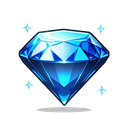
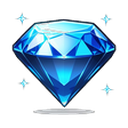
fix(circle-heroes): HUD 보석 아이콘 정렬 + 전투력 글씨색 통일
gem.png가 내부 여백이 골드/전투력 아이콘보다 비대칭적으로 커서(특히
위쪽) 같은 12px 박스 안에서 유독 아래로 치우쳐 보였다 — 실제 그림
내용에 맞춰 타이트하게 크롭 후 균등 여백으로 재중앙 정렬해 다른
아이콘들과 시각적으로 나란히 맞도록 함.
전투력 숫자는 .hud-power가 별도 색(#a8650f)을 써서 골드/보석과 달라
보였던 것을 제거, 공통 .hud-chip 색(#4a3418)을 그대로 따르게 통일.

diff --git a/circle-heroes/play/assets/index-CMFkOMbD.css b/circle-heroes/play/assets/index-CMFkOMbD.css
@@ -1,0 +1,1 @@
+:root{--bg: #f5ead6;--panel: #ecdab3;--panel2: #e2c48f;--line: #c7a468;--ink: #3b2a16;--ink2: #6e5430;--ink3: #9c8258;--amber: #f5ac3d;--amber-dark: #d88a1f;--red: #e8384a}#ui{position:fixed;top:0;right:0;bottom:0;left:0;display:flex;flex-direction:column;pointer-events:none;font-family:-apple-system,BlinkMacSystemFont,Apple SD Gothic Neo,Malgun Gothic,Noto Sans KR,sans-serif;color:var(--ink2);user-select:none;-webkit-user-select:none}#ui *{box-sizing:border-box}#ui button{font-family:inherit}#topbar-bg{position:absolute;inset:0 0 auto 0;height:calc(max(10px,env(safe-area-inset-top)) + 52px);background:var(--bg);z-index:4}#ui.on-battle #topbar-bg{background:none}#topbar{position:relative;z-index:5;display:flex;justify-content:space-between;align-items:flex-start;gap:8px;padding:max(10px,env(safe-area-inset-top)) 8px 6px}#hud{display:flex;flex-wrap:wrap;gap:2px;min-width:0;pointer-events:auto}.hud-chip{display:flex;align-items:center;gap:2px;background:#ecdab3cc;border:1px solid var(--line);border-radius:999px;padding:1px 6px 1px 3px;font-size:10px;color:#4a3418;font-variant-numeric:tabular-nums;white-space:nowrap}.hud-icon{width:12px;height:12px;object-fit:contain;flex:none}#corner{display:flex;flex-direction:row;flex:none;gap:8px;align-items:flex-start;pointer-events:auto}.corner-btn{width:44px;height:44px;border-radius:12px;background:#ecdab3dd;border:1px solid var(--line);display:flex;flex-direction:column;align-items:center;justify-content:center;gap:1px;font-size:9px;color:var(--ink2);position:relative;cursor:pointer}.corner-btn .ci{width:22px;height:22px;object-fit:contain}.corner-btn .ce{font-size:19px;line-height:1}.corner-btn .badge{position:absolute;top:-3px;right:-3px;width:10px;height:10px;border-radius:50%;background:var(--red);border:2px solid var(--bg)}.corner-btn.fold{width:26px;height:44px;font-size:12px;color:var(--ink3)}#corner.folded .corner-btn:not(.fold){display:none}.summon-single-btn{position:relative;display:flex;align-items:center;justify-content:center;gap:5px}.summon-free-dot{width:8px;height:8px;border-radius:50%;background:var(--red);flex:none}.tab{position:relative}.tab .badge{position:absolute;top:2px;right:18px;width:8px;height:8px;border-radius:50%;background:var(--red);border:2px solid var(--panel)}#screens{flex:1;position:relative;overflow:hidden}.screen{position:absolute;top:0;right:0;bottom:0;left:0;background:var(--bg);overflow-y:auto;padding:8px 14px 10px;pointer-events:auto;display:none}.screen.on{display:block}.screen h2{font-size:17px;color:var(--ink);margin:6px 0 3px}.screen .desc{font-size:12.5px;color:var(--ink3);margin:0 0 8px}#screen-battle{background:none;pointer-events:none}#subbar{display:flex;gap:6px;padding:8px 10px;background:#ecdab3f2;border-top:1px solid var(--line);justify-content:center;pointer-events:auto;overflow-x:auto}.sub-chip{font-size:12px;padding:6px 14px;border-radius:9px;background:var(--panel2);color:#8a7454;border:none;white-space:nowrap;cursor:pointer}.sub-chip.on{background:var(--amber);color:#10131c;font-weight:700}#tabbar{display:flex;align-items:flex-end;background:var(--panel);border-top:1px solid var(--line);padding:6px 6px calc(10px + env(safe-area-inset-bottom));gap:4px;pointer-events:auto}.tab{flex:1;display:flex;flex-direction:column;align-items:center;gap:3px;font-size:11px;color:#8a7454;padding:7px 0 3px;border-radius:9px;background:none;border:none;cursor:pointer}.tab .ti{width:32px;height:32px;object-fit:contain}.tab.on{background:var(--panel2);color:var(--amber)}.tab.center{flex:1.25;background:linear-gradient(180deg,var(--amber),var(--amber-dark));color:#10131c;font-weight:700;border-radius:14px;padding:11px 0 9px;margin-top:-18px;box-shadow:0 4px 12px #f5ac3d59}.tab.center .ti{width:28px;height:28px}#modal-root{position:absolute;top:0;right:0;bottom:0;left:0;display:none;align-items:center;justify-content:center;background:#060a14b8;pointer-events:auto;z-index:50;padding:24px 24px calc(86px + env(safe-area-inset-bottom)) 24px}#modal-root.on{display:flex}.modal{background:var(--panel);border:1px solid var(--line);border-radius:14px;padding:14px 16px;max-width:340px;width:100%;max-height:90vh;overflow-y:auto}.modal h3{margin:0 0 8px;font-size:16px;color:var(--ink)}.modal h4{margin:8px 0 6px;font-size:12.5px;color:var(--ink3)}.modal p{margin:0 0 14px;font-size:13px;color:var(--ink2)}.modal .row{display:flex;flex-wrap:wrap;gap:8px;justify-content:flex-end}.modal .row .btn{flex:1 1 auto}.modal .row .btn-cta{flex:1 1 100%}.btn{border:none;border-radius:9px;padding:9px 18px;font-size:13px;cursor:pointer;background:var(--panel2);color:var(--ink2);white-space:nowrap;flex-shrink:0;font-variant-numeric:tabular-nums}.btn.primary{background:none;color:#10131c;font-weight:700;border-style:solid;border-color:transparent;border-width:0 20px;border-image-source:url(btn-primary-bg.png);border-image-slice:0 130 fill;border-image-width:0 20px;border-image-repeat:stretch}.btn.danger{background:none;color:#fff;font-weight:700;border-style:solid;border-color:transparent;border-width:0 20px;border-image-source:url(btn-danger-bg.png);border-image-slice:0 130 fill;border-image-width:0 20px;border-image-repeat:stretch}.btn:disabled{opacity:.45;cursor:default}.backup-box{margin:4px 0 16px}.backup-box h4{margin:0 0 6px;font-size:13px;color:var(--ink)}.backup-box .btn{width:100%;margin-bottom:8px}.backup-box .row{justify-content:stretch}.code-box{margin:4px 0 16px}.code-box h4{margin:0 0 6px;font-size:13px;color:var(--ink)}.code-title{display:flex;align-items:center;gap:6px}.code-title-icon{width:16px;height:16px;object-fit:contain}.code-box .row{justify-content:stretch}.mail-box{margin:4px 0}.mail-bulk-btn{width:100%;margin-bottom:10px}.mail-row{border:1px solid var(--line);border-radius:10px;background:var(--panel2);margin-bottom:8px;overflow:hidden}.mail-row.read{opacity:.55}.mail-row-head{display:flex;align-items:center;gap:8px;padding:10px 12px;cursor:pointer}.mail-kind{width:20px;height:20px;object-fit:contain;flex:none}.mail-title{flex:1;font-size:13px;font-weight:700;color:var(--ink)}.mail-row.read .mail-title{color:var(--ink3);font-weight:600}.mail-dot{width:7px;height:7px;border-radius:50%;background:var(--red);flex:none}.mail-expand{display:none;padding:0 12px 12px;border-top:1px solid var(--line)}.mail-row.open .mail-expand{display:block;padding-top:10px}.mail-body{margin:0 0 10px;font-size:12.5px;color:var(--ink2);white-space:pre-line;line-height:1.5}.mail-reward-row{display:flex;gap:8px;margin-bottom:10px}.mail-reward-chip{display:flex;align-items:center;gap:4px;background:var(--panel);border:1px solid var(--line);border-radius:8px;padding:4px 8px;font-size:12px;color:var(--ink);font-variant-numeric:tabular-nums}.mail-reward-chip img{width:16px;height:16px;object-fit:contain}.mail-claimed{font-size:12px;color:var(--ink3);margin-bottom:4px}.mail-expand .btn{width:100%}.mail-expand .btn.primary{margin-bottom:8px}.muted{margin:0 0 10px;font-size:12px;color:var(--ink2);opacity:.8}.code-input{flex:1;min-width:0;border:1px solid var(--line);border-radius:9px;background:var(--panel2);color:var(--ink);padding:8px 10px;font-size:13px;letter-spacing:1px;text-transform:uppercase}#toast{position:absolute;left:50%;bottom:132px;transform:translate(-50%);background:#10131cee;border:1px solid var(--line);color:var(--ink2);font-size:12.5px;border-radius:999px;padding:8px 18px;opacity:0;transition:opacity .25s;pointer-events:none;z-index:60;white-space:nowrap}#toast.on{opacity:1}.power-row{display:flex;align-items:center;justify-content:space-between;gap:8px;margin-bottom:2px}.power-row h2{margin:0}.power-chip{flex:none;display:flex;align-items:center;gap:4px;font-size:12.5px;font-weight:700;color:var(--amber);background:var(--panel2);border:1px solid var(--line);border-radius:999px;padding:4px 10px;white-space:nowrap;font-variant-numeric:tabular-nums}.power-chip img{width:13px;height:13px;object-fit:contain;flex:none}.synergy-line{font-size:11.5px;color:var(--amber);background:#f5ac3d1a;border:1px solid #f5ac3d40;border-radius:8px;padding:6px 10px;margin-bottom:12px;text-align:center}.hero-grid{display:grid;grid-template-columns:repeat(5,1fr);gap:8px}.hero-card{position:relative;overflow:hidden;background:var(--grade-fill, var(--panel2));border:3px solid var(--line);border-radius:10px;aspect-ratio:3 / 4;cursor:pointer;display:flex;flex-direction:column;align-items:center;justify-content:center;gap:1px;padding:2px 0;text-align:center}.hero-card .face{position:relative;z-index:1;width:52px;height:52px;border-radius:8px;border:2px solid #10131c;flex:none}.hero-card .face.equip-face{display:flex;align-items:center;justify-content:center;font-size:26px;background:#00000040}.hero-card .hc-name{position:relative;z-index:1;flex:none;align-self:stretch;height:15px;font-size:7.5px;line-height:1.05;font-weight:600;background:#10131cd9;color:#fff;white-space:normal;word-break:break-all;display:-webkit-box;-webkit-line-clamp:2;-webkit-box-orient:vertical;overflow:hidden;text-overflow:ellipsis;max-width:100%;padding:0 4px}.hc-dupe-count{color:#fff;font-weight:700}.hero-card .hc-sub{position:relative;z-index:1;flex:none;font-size:8.5px;letter-spacing:.5px;color:#ffd34d}.hero-card .face .hc-sub{position:absolute;z-index:2;left:50%;bottom:2px;transform:translate(-50%);font-size:8px;letter-spacing:.5px;color:#ffd34d;text-shadow:0 1px 3px rgba(0,0,0,.85),0 0 2px rgba(0,0,0,.6)}.hc-badge{position:absolute;z-index:2;font-size:9px;font-weight:700;line-height:1;border-radius:999px;padding:3px 5px;background:#10131cdd;color:var(--ink);font-variant-numeric:tabular-nums}img.hc-badge{padding:2px;width:16px;height:16px;object-fit:contain;background:#10131cee}.hc-badge-tl{top:4px;left:4px}.hero-card .hc-badge-tr{top:4px;right:4px;background:var(--amber);color:#10131c}.hero-card .hc-badge-br{bottom:4px;right:4px}.hero-card .hc-badge-bl{bottom:4px;left:4px}.hero-card.in-party,.hero-card.selected{border-color:var(--amber)}.face-corner-badge{position:absolute;z-index:2;top:0;height:11px;box-sizing:border-box;display:flex;align-items:center;justify-content:center;font-size:9px;font-weight:700;line-height:1;padding:0 2px;background:#10131cf0;color:var(--ink);font-variant-numeric:tabular-nums}img.face-corner-badge{padding:1.5px;width:16px;object-fit:contain}.face-corner-badge.fc-tl{left:0;border-radius:8px 5px 5px}.face-corner-badge.fc-tr{right:0;border-radius:5px 8px 5px 5px}.face-corner-badge.badge-level{background:var(--amber);color:#10131c;font-size:6px}.hero-card.locked{cursor:default}.hero-card.grade-shimmer-unknown:before,.hero-card.grade-shimmer-ur:before{display:none}.hero-card.grade-shimmer-unknown,.hero-card.grade-shimmer-ur{border-color:transparent;background-origin:border-box}.hero-card.grade-shimmer-unknown{background-image:var(--grade-fill),linear-gradient(90deg,#ff5050,#ffaa3c,#e6e646,#46dc82,#46a0ff,#b45aff,#ff5050,#ffaa3c,#e6e646,#46dc82,#46a0ff,#b45aff);background-clip:padding-box,border-box;background-size:100% 100%,300% 100%;animation:rainbowBorderSweepCard 3.4s linear infinite}@keyframes rainbowBorderSweepCard{0%{background-position:0 0,0% 0}to{background-position:0 0,-200% 0}}@media(prefers-reduced-motion:reduce){.hero-card.grade-shimmer-unknown{animation:none;background-position:0 0,0% 0}}.hero-card.grade-shimmer-ur{background-image:var(--grade-fill),linear-gradient(115deg,#cfd6ea,#fff,#cfd6ea,#fff,#cfd6ea,#fff);background-clip:padding-box,border-box;background-size:100% 100%,300% 100%;animation:urBorderSweepCard 2.6s linear infinite}@keyframes urBorderSweepCard{0%{background-position:0 0,0% 0}to{background-position:0 0,-300% 0}}@media(prefers-reduced-motion:reduce){.hero-card.grade-shimmer-ur{animation:none;background-position:0 0,0% 0}}.grade-shimmer-unknown{position:relative}.grade-shimmer-unknown:before{content:"";position:absolute;top:0;right:0;bottom:0;left:0;border-radius:inherit;padding:3px;background:linear-gradient(90deg,#ff5050,#ffaa3c,#e6e646,#46dc82,#46a0ff,#b45aff,#ff5050,#ffaa3c,#e6e646,#46dc82,#46a0ff,#b45aff);background-size:300% 100%;-webkit-mask:linear-gradient(#000 0 0) content-box,linear-gradient(#000 0 0);-webkit-mask-composite:xor;mask-composite:exclude;animation:rainbowBorderSweep 3.4s linear infinite;pointer-events:none;z-index:3}@media(prefers-reduced-motion:reduce){.grade-shimmer-unknown:before{animation:none;box-shadow:0 0 8px 2px #b45aff99}}.grade-shimmer-ur{position:relative}.grade-shimmer-ur:before{content:"";position:absolute;top:0;right:0;bottom:0;left:0;border-radius:inherit;padding:3px;background:linear-gradient(115deg,#fff0 15%,#fffffff2,#fff0 85%),linear-gradient(180deg,#cfd6ea,#fff);background-size:300% 300%,100% 100%;-webkit-mask:linear-gradient(#000 0 0) content-box,linear-gradient(#000 0 0);-webkit-mask-composite:xor;mask-composite:exclude;animation:urBorderSweep 2.6s linear infinite;pointer-events:none;z-index:3}@keyframes urBorderSweep{0%{background-position:0% 50%,0 0}to{background-position:300% 50%,0 0}}@media(prefers-reduced-motion:reduce){.grade-shimmer-ur:before{animation:none;background-position:100% 50%,0 0}}.hero-card.locked .face{filter:grayscale(1) brightness(.75)}.hero-card .hc-lock{position:absolute;z-index:2;bottom:4px;left:4px;font-size:12px;background:#10131cdd;border-radius:999px;padding:3px 6px}.hero-card .hc-lock img{width:12px;height:12px;display:block;object-fit:contain}.codex-divider{display:flex;align-items:center;gap:8px;margin:16px 0 8px;padding-bottom:4px;border-bottom:1px solid var(--line)}.codex-divider:first-of-type{margin-top:4px}.codex-grade{font-size:14px;font-weight:800}.codex-count{font-size:11.5px;color:var(--ink3);font-variant-numeric:tabular-nums}.grade-N{color:#7d9ab5}.grade-R{color:#6f9fe8}.grade-SR{color:#b88ae8}.grade-SSR{color:#ffd980}.grade-UR{color:#eef1f8}.grade-Unknown{color:#8a8f9c}.banner-row{display:flex;gap:8px;margin-bottom:10px}.banner-card{flex:1;position:relative;overflow:hidden;background:var(--panel2);border:3px solid var(--line);border-radius:10px;aspect-ratio:3 / 4;cursor:pointer}.banner-card .face{position:absolute;top:3px;right:3px;bottom:3px;left:3px;z-index:1;border-radius:7px}.banner-card-standard{background:linear-gradient(150deg,#6e2a12,#123a55 28%,#1f5535,#6b551a,#3a1f5c);border-color:#ffd34d;display:flex;align-items:center;justify-content:center}.banner-card-standard-icon{font-size:32px;filter:drop-shadow(0 0 6px rgba(255,211,77,.6))}.banner-card-name{position:absolute;z-index:2;left:0;right:0;bottom:0;padding:4px 4px 5px;font-size:10px;font-weight:700;color:var(--ink);text-align:center;background:linear-gradient(to top,rgba(10,13,22,.92),transparent);white-space:nowrap;overflow:hidden;text-overflow:ellipsis}.banner-card-monthly{position:absolute;z-index:2;top:4px;left:4px;padding:2px 6px;font-size:8.5px;font-weight:800;color:#10131c;background:#ffd34d;border-radius:999px}.banner-card.on{box-shadow:0 0 0 2px #6fe8e0}.banner-card-check{position:absolute;z-index:2;top:4px;right:4px;width:18px;height:18px;border-radius:50%;background:#2fae5c;color:#fff;font-size:11px;font-weight:800;display:flex;align-items:center;justify-content:center}.banner-info{margin-bottom:8px;text-align:center}.banner-info-flavor{font-size:12px;color:var(--ink2);margin-bottom:2px}.banner-info-pity{font-size:11.5px;color:var(--ink3)}.banner-info-pity b{color:var(--amber)}.summon-box{background:radial-gradient(circle at 50% 30%,#fbe8c0,#ecdab3 75%);border:1px solid var(--line);border-radius:14px;padding:14px 16px;text-align:center;margin-bottom:10px}.summon-btn-row{display:flex;gap:10px;justify-content:center;flex-wrap:wrap}.summon-btn-row .btn{flex:1 1 auto;min-width:128px}.orb{position:relative;width:80px;height:112px;margin:8px auto 12px}.orb-card{position:absolute;top:0;right:0;bottom:0;left:0;border-radius:11px}.orb-card-back2{background:radial-gradient(circle at 50% 35%,#1c2440,#05070f 80%);border:2px solid rgba(245,172,61,.35);transform:translate(7px,6px) rotate(7deg);opacity:.55}.orb-card-back1{background:radial-gradient(circle at 50% 35%,#1c2440,#05070f 80%);border:2px solid rgba(245,172,61,.5);transform:translate(3px,3px) rotate(3deg);opacity:.8}.orb-card-main{background:radial-gradient(circle at 50% 35%,#1c2440,#05070f 82%);border:2px solid #f5ac3d;box-shadow:0 0 22px #f5ac3d80,inset 0 0 16px #f5ac3d24;display:flex;align-items:center;justify-content:center;overflow:hidden;animation:cardFloat 2.4s ease-in-out infinite}.orb-card-main:before{content:"";position:absolute;top:5px;right:5px;bottom:5px;left:5px;border:1px solid rgba(245,172,61,.32);border-radius:8px;pointer-events:none}.orb-card-ring{position:absolute;width:60%;aspect-ratio:1;border-radius:50%;border:2px solid rgba(245,172,61,.55);box-shadow:0 0 14px #f5ac3d59}.orb-card-ring:before{content:"";position:absolute;top:-7px;right:-7px;bottom:-7px;left:-7px;border-radius:50%;border:1px dashed rgba(245,172,61,.3)}.orb-card-mark{position:relative;font-size:34px;font-weight:800;color:#f5d9a8;text-shadow:0 0 14px rgba(245,172,61,.85)}.orb-card-shine{position:absolute;top:0;left:-70%;width:45%;height:100%;background:linear-gradient(100deg,transparent,rgba(255,255,255,.55),transparent);transform:skew(-18deg);animation:cardShine 2.6s ease-in-out infinite}@keyframes cardFloat{0%,to{transform:translateY(0)}50%{transform:translateY(-5px)}}@keyframes cardShine{0%{left:-70%}55%,to{left:140%}}.orb-spark{position:absolute;color:#d8fffb;font-size:11px;text-shadow:0 0 6px rgba(216,255,251,.9);animation:orbSparkle 1.8s ease-in-out infinite}.orb-spark.s0{top:-4%;left:4%;animation-delay:0s}.orb-spark.s1{top:6%;right:-8%;animation-delay:.4s}.orb-spark.s2{bottom:4%;left:-10%;animation-delay:.8s}.orb-spark.s3{bottom:-4%;right:2%;animation-delay:1.2s}@keyframes orbSparkle{0%,to{opacity:.15;transform:scale(.7)}50%{opacity:1;transform:scale(1.15)}}@media(prefers-reduced-motion:reduce){.orb-card-main,.orb-card-shine,.orb-spark{animation:none}}.pity{font-size:11.5px;color:var(--ink3);margin:10px 0 0}.pity b{color:var(--amber)}.summon-title-row{display:flex;align-items:center;justify-content:space-between}.summon-title-row h2{margin:0}.prob-btn{padding:5px 10px;font-size:11px;background:var(--panel2);color:var(--ink3);border:1px solid var(--line)}.prob-modal{text-align:left}.prob-table{width:100%;border-collapse:collapse;margin-bottom:14px}.prob-table th,.prob-table td{padding:6px 8px;border-bottom:1px solid var(--line);font-size:12.5px;text-align:left}.prob-table th{color:var(--ink3);font-weight:600;font-size:11px}.prob-table td.gd{font-weight:800}.prob-note-title{font-size:12px;font-weight:700;color:var(--ink);margin:12px 0 4px}.prob-note-title:first-of-type{margin-top:0}.prob-note{font-size:11.5px;color:var(--ink3);line-height:1.5;margin-bottom:3px}.list-card{background:var(--panel2);border:1px solid var(--line);border-radius:10px;padding:7px 12px;margin-bottom:4px;display:flex;align-items:center;gap:12px;font-size:13px}.list-card .grow{flex:1}.list-card .li-icon{width:28px;height:28px;object-fit:contain;flex:none}.ticket-icon{width:14px;height:14px;object-fit:contain;vertical-align:-2px;margin:0 1px}.arena-opp-list{margin:8px 0}.arena-select .btn:not(.primary){width:100%;margin-top:4px}.list-card .t{color:var(--ink);font-size:13.5px}.list-card .s{color:var(--ink3);font-size:11.5px;margin-top:2px}.party-row{display:grid;grid-template-columns:repeat(5,1fr);gap:8px;margin-bottom:18px}.hero-card.hero-card-empty{background:var(--panel2);border:1px dashed var(--line)}.hc-empty-plus{font-size:22px;color:var(--ink3)}.ascend-panel{display:flex;align-items:center;gap:10px;background:var(--panel2);border:1px solid var(--line);border-radius:12px;padding:14px;margin-bottom:12px}.ascend-slot{position:relative;overflow:hidden;flex:none;width:88px;aspect-ratio:3 / 4;background:var(--panel);border:1px dashed var(--line);border-radius:10px;display:flex;flex-direction:column;align-items:center;justify-content:center;gap:2px;cursor:pointer;text-align:center;padding:4px}.ascend-target{cursor:pointer}.ascend-slot.filled{border-style:solid;border-width:3px}.ascend-slot .face{position:relative;z-index:1;width:56px;height:56px;border-radius:12px;border:2px solid #10131c}.ascend-slot .as-nm,.ascend-slot .as-stars{position:relative;z-index:1}.ascend-slot .as-nm{font-size:10px;color:var(--ink);white-space:nowrap;overflow:hidden;text-overflow:ellipsis;max-width:100%}.ascend-slot .as-stars{font-size:9px;color:#ffd34d}.ascend-arrow{flex:none;font-size:20px;color:var(--ink3)}.ascend-mats{flex:1;display:flex;flex-wrap:wrap;gap:6px;align-items:center}.ascend-mat{width:46px;aspect-ratio:1;cursor:default}.ascend-mat .face{width:30px;height:30px}.as-label{font-size:11px;color:var(--ink3);width:100%}.ascend-btn{width:100%;margin-bottom:16px}.ascend-preview{background:var(--panel2);border:1px solid var(--line);border-radius:12px;padding:10px 14px;margin-bottom:12px}.ap-title{font-size:12.5px;color:#ffd34d;font-weight:700;margin-bottom:6px}.ap-row{display:flex;gap:14px;flex-wrap:wrap}.ap-stat{display:flex;flex-direction:column;align-items:flex-start;gap:2px;font-size:11px}.ap-lbl{color:var(--ink3)}.ap-vals{display:flex;align-items:center;gap:4px}.ap-now{color:var(--ink3);text-decoration:line-through;font-variant-numeric:tabular-nums}.ap-arrow{color:var(--ink3);font-size:10px}.ap-next{color:var(--ink);font-weight:700;font-variant-numeric:tabular-nums}.equip-slot-grid{display:grid;grid-template-columns:repeat(3,1fr);gap:6px}.equip-slot-box{aspect-ratio:1 / 1;background:var(--panel);border:1px dashed var(--line);border-radius:10px;display:flex;flex-direction:column;align-items:center;justify-content:center;gap:2px;cursor:pointer;text-align:center;padding:4px}.equip-slot-box.filled{border-style:solid;border-width:3px}.equip-slot-box .esb-icon{font-size:22px}.equip-slot-box .esb-plus{font-size:18px;color:var(--ink3)}.equip-slot-box .esb-grade{font-size:12px;font-weight:800}.equip-slot-box .esb-label{font-size:10px;color:var(--ink3)}.equip-modal{text-align:left}.equip-modal-title{font-size:12px;font-weight:700;color:var(--ink3);margin:12px 0 6px}.equip-modal-title:first-child{margin-top:0}.equip-modal-row{display:flex;align-items:center;flex-wrap:wrap;gap:8px 10px;background:var(--panel2);border:1px solid var(--line);border-radius:10px;padding:9px 10px;margin-bottom:6px}.equip-modal-grade{font-size:13px;flex:none;min-width:34px;white-space:nowrap}.equip-modal-bonus{flex:1 1 auto;font-size:12.5px;color:var(--ink);white-space:nowrap}.equip-modal-row .btn{flex:none}.detail-head{position:relative;overflow:hidden;display:flex;gap:12px;align-items:center;margin-bottom:8px;padding:8px 10px;border-radius:12px}.detail-head .face{position:relative;z-index:1;width:76px;height:76px;border-radius:14px;border:2px solid #10131c;flex:none}.detail-head .dh-name,.detail-head .gd,.detail-head .dh-stars,.detail-head .dh-lv{position:relative;z-index:1}.dh-name{font-size:16px;color:var(--ink);font-weight:700}.dh-lv{font-size:12px;color:var(--amber);margin-top:2px}.detail-head .face.has-illustration{cursor:pointer}.illust-hint{position:absolute;z-index:2;bottom:2px;right:2px;width:16px;height:16px;object-fit:contain;background:#10131cdd;border-radius:999px;padding:2px}.illust-overlay{position:fixed;top:0;right:0;bottom:0;left:0;z-index:200;background:#05070eeb;display:flex;align-items:center;justify-content:center;padding:24px}.illust-img{max-width:100%;max-height:100%;border-radius:14px;box-shadow:0 12px 40px #0009}.stat-box{display:grid;grid-template-columns:1fr 1fr;column-gap:14px;background:var(--panel);border-radius:9px;padding:8px 12px;margin-bottom:8px}.stat-row{display:flex;justify-content:space-between;font-size:12.5px;padding:2.5px 0}.stat-row.stat-row-wide{grid-column:1 / -1}.stat-row .sl{color:var(--ink3);white-space:nowrap;flex-shrink:0}.stat-row .sv{color:var(--ink);font-variant-numeric:tabular-nums;white-space:nowrap;flex-shrink:0;margin-left:8px}.skill-box{margin-bottom:8px}.skill-box .sk{display:flex;align-items:flex-start;gap:5px;font-size:11.5px;color:var(--ink2);padding:2px 0;line-height:1.3}.skill-box .sk img{width:14px;height:14px;object-fit:contain;flex:none;margin-top:1px}.matchup-box{display:flex;gap:14px;background:var(--panel);border-radius:9px;padding:6px 12px;margin-bottom:8px}.mu-row{display:flex;align-items:center;gap:5px;font-size:12px}.mu-arrow{font-size:10px}.mu-strong .mu-arrow{color:#6fd98a}.mu-weak .mu-arrow{color:#e8683a}.mu-icon{width:16px;height:16px}.mu-txt{color:var(--ink2)}.faction-tabs{display:flex;gap:6px;margin-bottom:12px}.f-chip{display:inline-flex;align-items:center;justify-content:center;flex:1 1 0;padding:6px 0;border-radius:10px;background:var(--panel2);color:var(--ink2);border:1.5px solid var(--line);cursor:pointer}.fc-icon{width:26px;height:26px;object-fit:contain}.fc-icon.fc-icon-emoji{font-size:20px;line-height:1}.f-chip.on{background:var(--amber);color:#10131c;font-weight:700;border-color:var(--amber)}.dh-stars{font-size:12px;color:#ffd34d;letter-spacing:2px;margin-top:2px}.asc-row{display:flex;align-items:center;justify-content:space-between;gap:10px;background:var(--panel);border-radius:9px;padding:9px 12px;margin-bottom:10px;font-size:12px;color:var(--ink2)}#summon-fx{position:absolute;top:0;right:0;bottom:0;left:0;z-index:70;background:radial-gradient(ellipse at 50% 40%,#fdf0d0,#f5ead6 75%);display:flex;flex-direction:column;align-items:center;justify-content:center;pointer-events:auto;overflow:hidden}.sfx-spark{position:absolute;z-index:5;color:#fff3d6;font-size:13px;text-shadow:0 0 6px rgba(255,211,77,.9),0 0 2px rgba(20,12,4,.6);pointer-events:none;animation:sfxSparkPop 1s ease-out forwards}@keyframes sfxSparkPop{0%{opacity:0;transform:scale(.4)}30%{opacity:1;transform:scale(1.2)}to{opacity:0;transform:scale(.8)}}@media(prefers-reduced-motion:reduce){.sfx-spark{animation:none;opacity:.8}}#summon-fx.flash-sr:before{content:"";position:absolute;top:0;right:0;bottom:0;left:0;background:radial-gradient(circle,rgba(200,140,255,.55),transparent 70%);animation:srFlash .5s ease-out forwards;pointer-events:none}@keyframes srFlash{0%{opacity:1}to{opacity:0}}.sfx-orb{position:relative;width:110px;height:154px;animation:orbBurst .35s ease-in 1.8s forwards}.sfx-orb .orb-card-main.sfx-orb-main{animation:cardCharge .9s ease-in-out 2}@keyframes cardCharge{0%,to{transform:scale(1);box-shadow:0 0 22px #6fe8e08c,inset 0 0 16px #6fe8e01f}50%{transform:scale(1.1);box-shadow:0 0 46px #6fe8e0e6,inset 0 0 18px #6fe8e040}}@keyframes orbBurst{to{transform:scale(2.6);opacity:0}}.sfx-grid{display:grid;grid-template-columns:repeat(2,1fr);gap:12px;padding:10px}.sfx-grid.ten{gap:8px}.sfx-grid.rows{display:flex;flex-direction:column;gap:8px;padding:10px}.sfx-row{display:flex;justify-content:center;gap:8px}.sfx-card{width:60px;aspect-ratio:3 / 4;perspective:700px;animation:cardIn .3s ease-out backwards}@keyframes cardIn{0%{transform:translateY(24px);opacity:0}}.sfx-card .inner{position:relative;width:100%;height:100%;transform-style:preserve-3d;transition:transform .45s cubic-bezier(.3,1.2,.4,1)}.sfx-card.fast .inner{transition-duration:.22s}.sfx-card.flipped .inner{transform:rotateY(180deg)}.sfx-card .back,.sfx-card .front{position:absolute;top:0;right:0;bottom:0;left:0;backface-visibility:hidden;-webkit-backface-visibility:hidden;border-radius:12px;display:flex;flex-direction:column;align-items:center;justify-content:center;gap:5px}.sfx-card .back{background:radial-gradient(circle at 50% 36%,#332a5c,#1a1430 55%,#0b0818);border:3px solid #f5ac3d;box-shadow:0 0 18px #f5ac3d73,inset 0 0 22px #f5ac3d26;color:#f5d9a8;position:relative;overflow:hidden}.sfx-card .back:before{content:"";position:absolute;top:0;right:0;bottom:0;left:0;background-image:repeating-radial-gradient(circle at 50% 38%,transparent 0,transparent 9px,rgba(245,172,61,.1) 9px,rgba(245,172,61,.1) 10px)}.sfx-card .back:after{content:"";position:absolute;top:6px;right:6px;bottom:6px;left:6px;border:1px dashed rgba(245,172,61,.4);border-radius:9px;background:radial-gradient(circle 2.5px at 5px 5px,#f5ac3d 98%,transparent 100%),radial-gradient(circle 2.5px at calc(100% - 5px) 5px,#f5ac3d 98%,transparent 100%),radial-gradient(circle 2.5px at 5px calc(100% - 5px),#f5ac3d 98%,transparent 100%),radial-gradient(circle 2.5px at calc(100% - 5px) calc(100% - 5px),#f5ac3d 98%,transparent 100%);background-repeat:no-repeat;pointer-events:none}.back-ring{position:relative;width:62%;aspect-ratio:1;border-radius:50%;border:2px solid rgba(245,172,61,.65);box-shadow:0 0 18px #f5ac3d66}.back-ring:before{content:"";position:absolute;top:-8px;right:-8px;bottom:-8px;left:-8px;border-radius:50%;border:1px dashed rgba(245,172,61,.35)}.back-ring:after{content:"";position:absolute;top:16%;right:16%;bottom:16%;left:16%;border-radius:50%;border:1px solid rgba(245,172,61,.3)}.back-mark{position:relative;font-size:22px;font-weight:700;color:#f5d9a8;text-shadow:0 0 12px rgba(245,172,61,.85)}.sfx-card.tease .back{border-color:#ffd34d;animation:teasePulse .55s ease-in-out infinite}@keyframes teasePulse{0%,to{box-shadow:0 0 8px #ffd34d66}50%{box-shadow:0 0 26px #ffd34df2}}.sfx-card .front{transform:rotateY(180deg);background:var(--panel2);overflow:hidden;font-size:9px;gap:2px;color:var(--ink);text-align:center;padding:4px 3px 3px}.sfx-card .front>*{position:relative;z-index:1}.sfx-card .front .face{width:40px;height:40px;border-radius:9px;border:2px solid #10131c}.sfx-card .front{border:3px solid var(--line)}.sfx-card.grade-SR.flipped,.sfx-card.grade-SSR.flipped,.sfx-card.grade-UR.flipped{animation:srPop .4s ease-out .25s}@keyframes srPop{0%{transform:scale(1)}40%{transform:scale(1.12)}to{transform:scale(1)}}.sfx-card .front .newtag{position:absolute;top:-4px;left:50%;transform:translate(-50%);width:40px;height:20px;object-fit:contain;filter:drop-shadow(0 2px 3px rgba(0,0,0,.4))}.sfx-hint{margin-top:16px;font-size:11.5px;color:var(--ink3);min-height:1em}.sfx-hint.done{display:none}.sfx-flipall{margin-top:14px;min-width:160px}.sfx-footer{display:flex;flex-direction:column;align-items:center;gap:4px;margin-top:6px}.sfx-again{display:flex;gap:10px;margin-top:18px;flex-wrap:wrap;justify-content:center}.sfx-again .btn{min-width:140px}.sfx-new-popup{position:absolute;top:0;right:0;bottom:0;left:0;z-index:5;background:#f5ead6f2;display:flex;flex-direction:column;align-items:center;justify-content:center;gap:10px;padding:24px;text-align:center}.sfx-new-title{font-size:18px;font-weight:800;color:#ffd34d}.sfx-new-card{position:relative;overflow:hidden;width:150px;aspect-ratio:3 / 4;border-radius:14px;border:4px solid var(--line);background:var(--panel2);animation:srPop .4s ease-out}.sfx-new-card .face{position:absolute;top:9px;right:9px;bottom:9px;left:9px;border-radius:10px}.sfx-new-name{font-size:17px;font-weight:700;color:var(--ink)}.sfx-new-sub{font-size:12.5px;color:var(--ink3);margin-bottom:6px}.sfx-new-popup .btn{min-width:160px}#screen-summon.fx-active>*{visibility:hidden}@media(prefers-reduced-motion:reduce){.sfx-orb,.sfx-orb-ring,.sfx-orb-core,.sfx-card,.sfx-card .inner,.sfx-card.tease .back{animation:none!important;transition:none!important}}.mbar{height:5px;background:#10131c;border-radius:3px;margin:3px 0 2px;overflow:hidden}.mbar-fill{height:100%;background:linear-gradient(90deg,var(--amber),#ffd34d);border-radius:3px;transition:width .3s}.list-card.all-bonus{border-color:var(--amber)}.milestone-box{background:linear-gradient(180deg,#f5ac3d38,#f5ac3d14);border:2px solid var(--amber);border-radius:12px;padding:8px 12px;margin-bottom:10px;box-shadow:0 0 0 1px #f5ac3d26,0 2px 8px #d88a1f2e}.milestone-title{font-size:12.5px;font-weight:800;color:var(--amber-dark);margin-bottom:2px;display:flex;align-items:center;gap:4px}.milestone-title:before{content:"🏆";font-size:12px}.mission-list-label{font-size:11.5px;font-weight:700;color:var(--ink3);margin:2px 2px 4px}.milestone-bar{margin:4px 0 6px}.milestone-chests{display:flex;gap:6px}.milestone-chest{flex:1;display:flex;flex-direction:column;align-items:center;gap:2px;padding:4px 2px;border-radius:8px;border:1px dashed var(--line);background:var(--panel);cursor:default;font:inherit;color:inherit}.milestone-chest.ready{border-style:solid;border-color:var(--amber);cursor:pointer;background:#f5ac3d1f}.milestone-chest.claimed{border-style:solid;opacity:.55}.milestone-chest:disabled{cursor:default}.milestone-chest .mc-icon{font-size:16px}.milestone-chest .mc-pts{font-size:10px;color:var(--ink3);font-variant-numeric:tabular-nums}.milestone-chest .mc-reward{font-size:9px;color:var(--ink2);white-space:nowrap}.raid-select-banner{background:#f5ac3d26;border:1px solid var(--amber);border-radius:10px;padding:10px 12px;font-size:12px;color:var(--ink);line-height:1.5;margin-bottom:12px}.raid-dungeon-grid{display:grid;grid-template-columns:repeat(2,1fr);gap:10px}.raid-hut{--roof: #888;position:relative;border:none;border-radius:12px;background:#fff7e8ee;box-shadow:0 4px 10px #28190540;cursor:pointer;padding:0 0 8px;overflow:hidden}.raid-hut .hub-roof{height:14px;background:var(--roof);border-radius:12px 12px 0 0}.raid-hut .hub-body{display:flex;flex-direction:column;align-items:center;gap:2px;padding:8px 6px 0}.raid-hut .hub-label{font-size:12.5px;font-weight:700;color:#241a08}.raid-hut .hub-flavor{font-size:10px;color:#6b5530;text-align:center}.raid-hut.locked{filter:grayscale(1);opacity:.55;cursor:default}.raid-lock{position:absolute;top:6px;right:8px;font-size:14px}#splash{position:fixed;top:0;right:0;bottom:0;left:0;z-index:100;display:flex;flex-direction:column;align-items:center;justify-content:center;gap:10px;background:linear-gradient(180deg,#0a080480,#0a080414 26%,#0a080414 62%,#0a08048c),url(splash.png) center/cover no-repeat;cursor:pointer;font-family:-apple-system,BlinkMacSystemFont,Apple SD Gothic Neo,Malgun Gothic,Noto Sans KR,sans-serif}#splash.loading{cursor:default}#splash.loading #splash-tap{animation:none;opacity:.55}#splash-title{position:absolute;top:30%;left:50%;transform:translate(-50%,-50%);font-size:42px;font-weight:900;letter-spacing:.02em;color:#fff8e8;text-align:center;white-space:nowrap;text-shadow:0 2px 0 rgba(20,12,4,.95),0 3px 8px rgba(20,12,4,.9),0 0 4px rgba(20,12,4,.95),0 0 20px rgba(245,172,61,.65),0 0 32px rgba(20,12,4,.5);z-index:2}#splash-michael{max-width:min(94vw,520px);max-height:68vh;width:auto;height:auto;object-fit:contain;filter:drop-shadow(0 14px 22px rgba(20,12,4,.35));pointer-events:none}#splash-tap{position:absolute;bottom:max(140px,env(safe-area-inset-bottom) + 100px);font-size:13px;font-weight:700;color:#fff3d6;letter-spacing:.06em;text-shadow:0 1px 2px rgba(20,12,4,.9),0 0 8px rgba(20,12,4,.75);animation:splashBlink 1.4s ease-in-out infinite}@keyframes splashBlink{0%,to{opacity:1}50%{opacity:.15}}@media(prefers-reduced-motion:reduce){#splash-tap{animation:none}}.adventure-banner-list{display:flex;flex-direction:column;gap:10px}.adventure-banner{position:relative;overflow:hidden;border:none;border-radius:14px;height:92px;display:flex;align-items:center;gap:12px;padding:0 16px;cursor:pointer;text-align:left;box-shadow:0 6px 16px #00000059}.adventure-banner:before{content:"";position:absolute;top:0;right:0;bottom:0;left:0;background:var(--ab-img) center/cover no-repeat}.adventure-banner:after{content:"";position:absolute;top:0;right:0;bottom:0;left:0;background:linear-gradient(180deg,#0000000d,#0000008c)}.adventure-banner .ab-body{position:relative;z-index:1;flex:1;min-width:0}.adventure-banner .ab-label{font-size:16px;font-weight:800;color:#fff;text-shadow:0 1px 2px rgba(0,0,0,.95),0 0 6px rgba(0,0,0,.8)}.adventure-banner .ab-flavor{font-size:11.5px;color:#fff;margin-top:2px;text-shadow:0 1px 2px rgba(0,0,0,.95),0 0 5px rgba(0,0,0,.8)}.adventure-banner .ab-arrow{position:relative;z-index:1;flex:none;font-size:18px;color:#fffc}.adventure-banner.mode-raid{--ab-img: url(banner-raid.png)}.adventure-banner.mode-arena{--ab-img: url(banner-arena.png)}.adventure-banner.mode-tower{--ab-img: url(banner-tower.png)}.hud-chip.clickable{cursor:pointer}#screen-adventure.adventure-live{background:none;pointer-events:none;padding:0}#subbar.empty{display:none}.summon-title-row h2{flex:1;text-align:center}.summon-corner-right{display:flex;flex-direction:column;align-items:center;gap:4px}.summon-help-btn{width:26px;height:26px;padding:0;border-radius:50%;background:var(--panel2);color:var(--ink3);border:1px solid var(--line);font-size:12px;line-height:1}.pity-ring{--pct: 0;width:36px;height:36px;border-radius:50%;background:conic-gradient(var(--amber) calc(var(--pct) * 1%),rgba(255,255,255,.12) 0);display:flex;align-items:center;justify-content:center;position:relative}.pity-ring:before{content:"";position:absolute;top:3px;right:3px;bottom:3px;left:3px;border-radius:50%;background:var(--panel)}.pity-ring-text{position:relative;font-size:7.5px;font-weight:700;color:var(--ink);z-index:1}.summon-cat-row{gap:6px;margin-bottom:6px}.summon-cat-chip{flex:1;padding:9px 4px;border-radius:10px;background:var(--panel2);border:1px solid var(--line);color:var(--ink3);font-size:12.5px;font-weight:700;cursor:pointer}.summon-cat-chip.on{background:var(--amber);color:#10131c;border-color:var(--amber)}.summon-cat-desc{text-align:center;margin-bottom:10px}.pickup-select-row{display:flex;gap:10px;justify-content:center;margin-bottom:8px}.pickup-select-slot{position:relative;width:72px;aspect-ratio:3 / 4;border-radius:12px;border:2px solid var(--line);background:var(--panel2);cursor:pointer;overflow:hidden;display:flex;flex-direction:column;align-items:center;justify-content:flex-end;opacity:.6;transition:opacity .15s,transform .15s}.pickup-select-slot .face{position:absolute;top:0;right:0;bottom:0;left:0}.pickup-select-slot.on{opacity:1;transform:translateY(-3px);box-shadow:0 0 0 2px var(--amber),0 0 12px 2px #f5ac3d99}.pickup-select-up{position:absolute;top:4px;left:50%;transform:translate(-50%);background:var(--amber);color:#10131c;font-size:9px;font-weight:800;padding:1px 6px;border-radius:999px;z-index:1}.pickup-select-name{position:relative;z-index:1;width:100%;padding:3px 2px;background:#0a0d16b3;color:var(--ink);font-size:10px;font-weight:700;text-align:center;white-space:nowrap;overflow:hidden;text-overflow:ellipsis}.mat-count{background:var(--red)!important}.transcend-mats{justify-content:center}.star-purple{background:linear-gradient(115deg,#ff17a8 15%,#ffd6f2,#ff17a8 85%);background-size:300% 100%;-webkit-background-clip:text;background-clip:text;color:transparent!important;-webkit-text-fill-color:transparent;text-shadow:0 0 3px #000,0 0 8px rgba(255,23,168,.85);animation:starPurpleShine 2.2s linear infinite}@keyframes starPurpleShine{0%{background-position:0% 0}to{background-position:-200% 0}}@media(prefers-reduced-motion:reduce){.star-purple{animation:none;background-position:-100% 0}}

diff --git a/circle-heroes/play/index.html b/circle-heroes/play/index.html
@@ -8,8 +8,8 @@
       html, body { margin: 0; padding: 0; background: #f5ead6; height: 100%; overflow: hidden; }
       #app { width: 100%; height: 100%; }
     </style>
-    <script type="module" crossorigin src="./assets/index-D9fkmniH.js"></script>
-    <link rel="stylesheet" crossorigin href="./assets/index-Cv3nC_jc.css">
+    <script type="module" crossorigin src="./assets/index-DgKlJxvh.js"></script>
+    <link rel="stylesheet" crossorigin href="./assets/index-CMFkOMbD.css">
   </head>
   <body>
     <div id="app"></div>

diff --git a/circle-heroes/src/ui/ui.css b/circle-heroes/src/ui/ui.css
@@ -73,7 +73,8 @@
   white-space: nowrap;
 }
 .hud-icon { width: 12px; height: 12px; object-fit: contain; flex: none; }
-.hud-power { color: #a8650f; }
+/* §2026-08-01 "전투력 글씨 색깔이 골드/보석과 다름, 통일" — hud-power만 별도 색(#a8650f)을 쓰던
+   걸 제거해 .hud-chip 기본 색(#4a3418)을 그대로 따르게 함 */
 
 /* ── 우상단 플로팅 ── */
 #corner {
